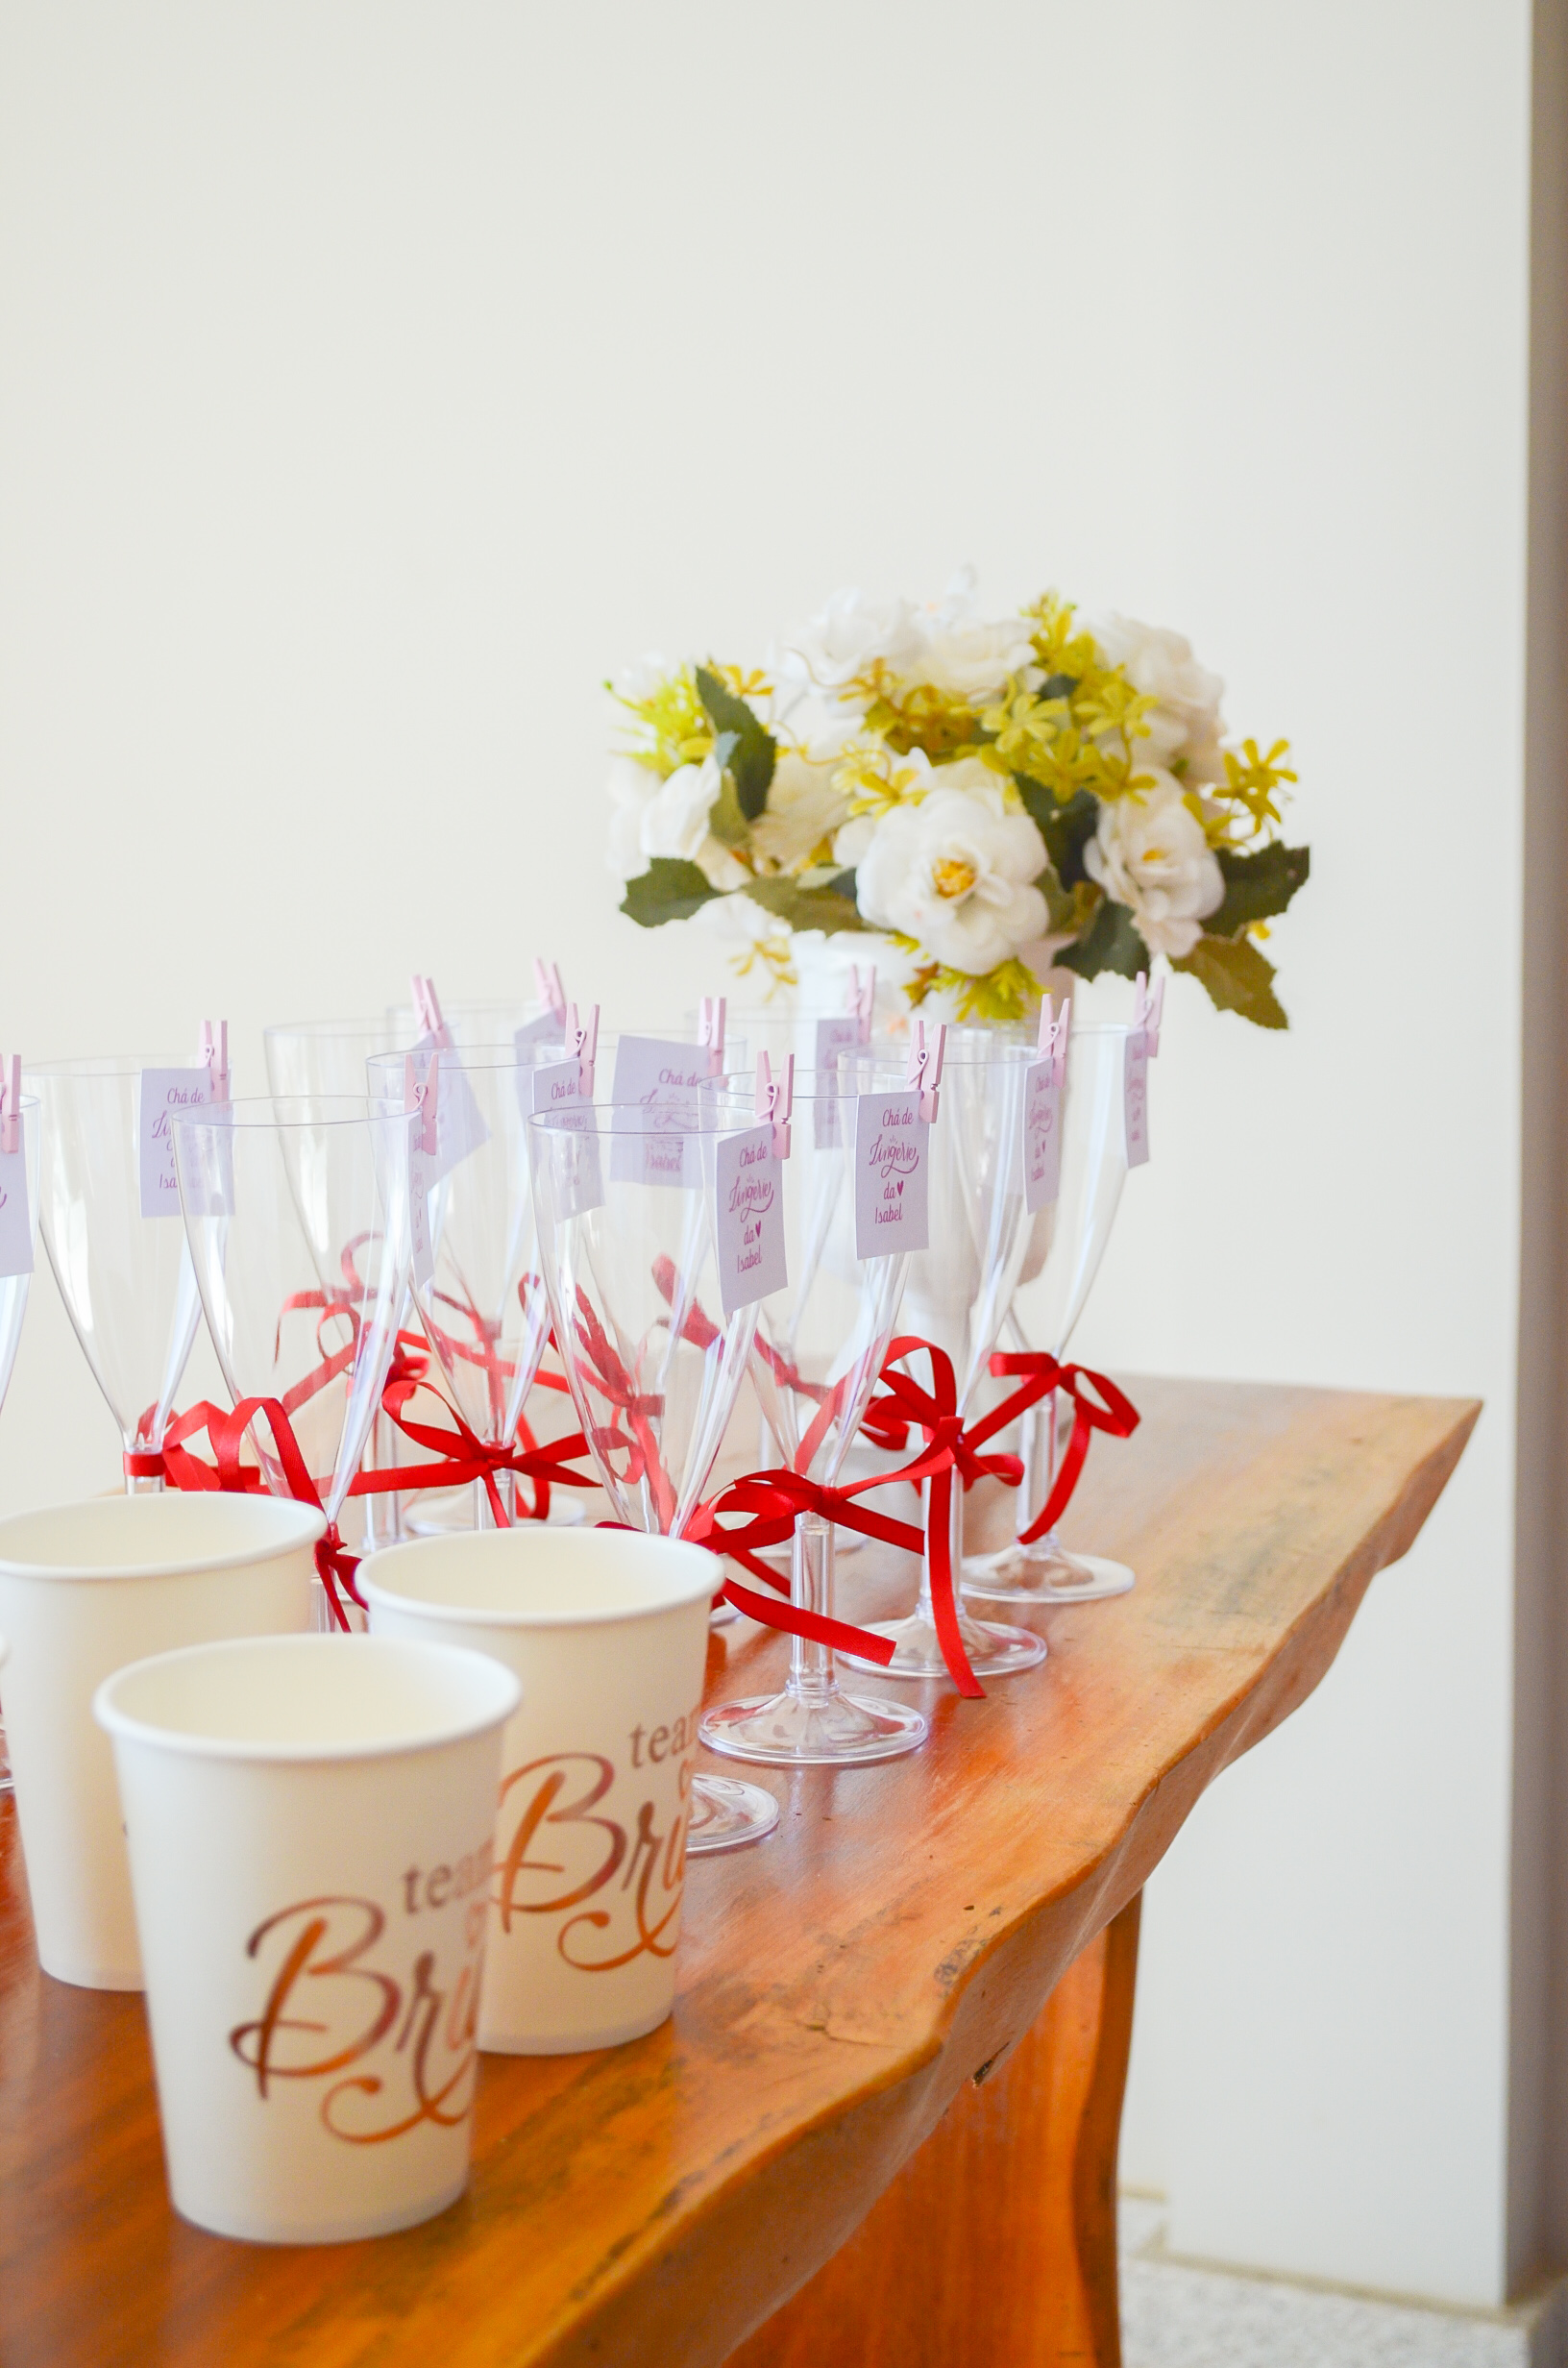
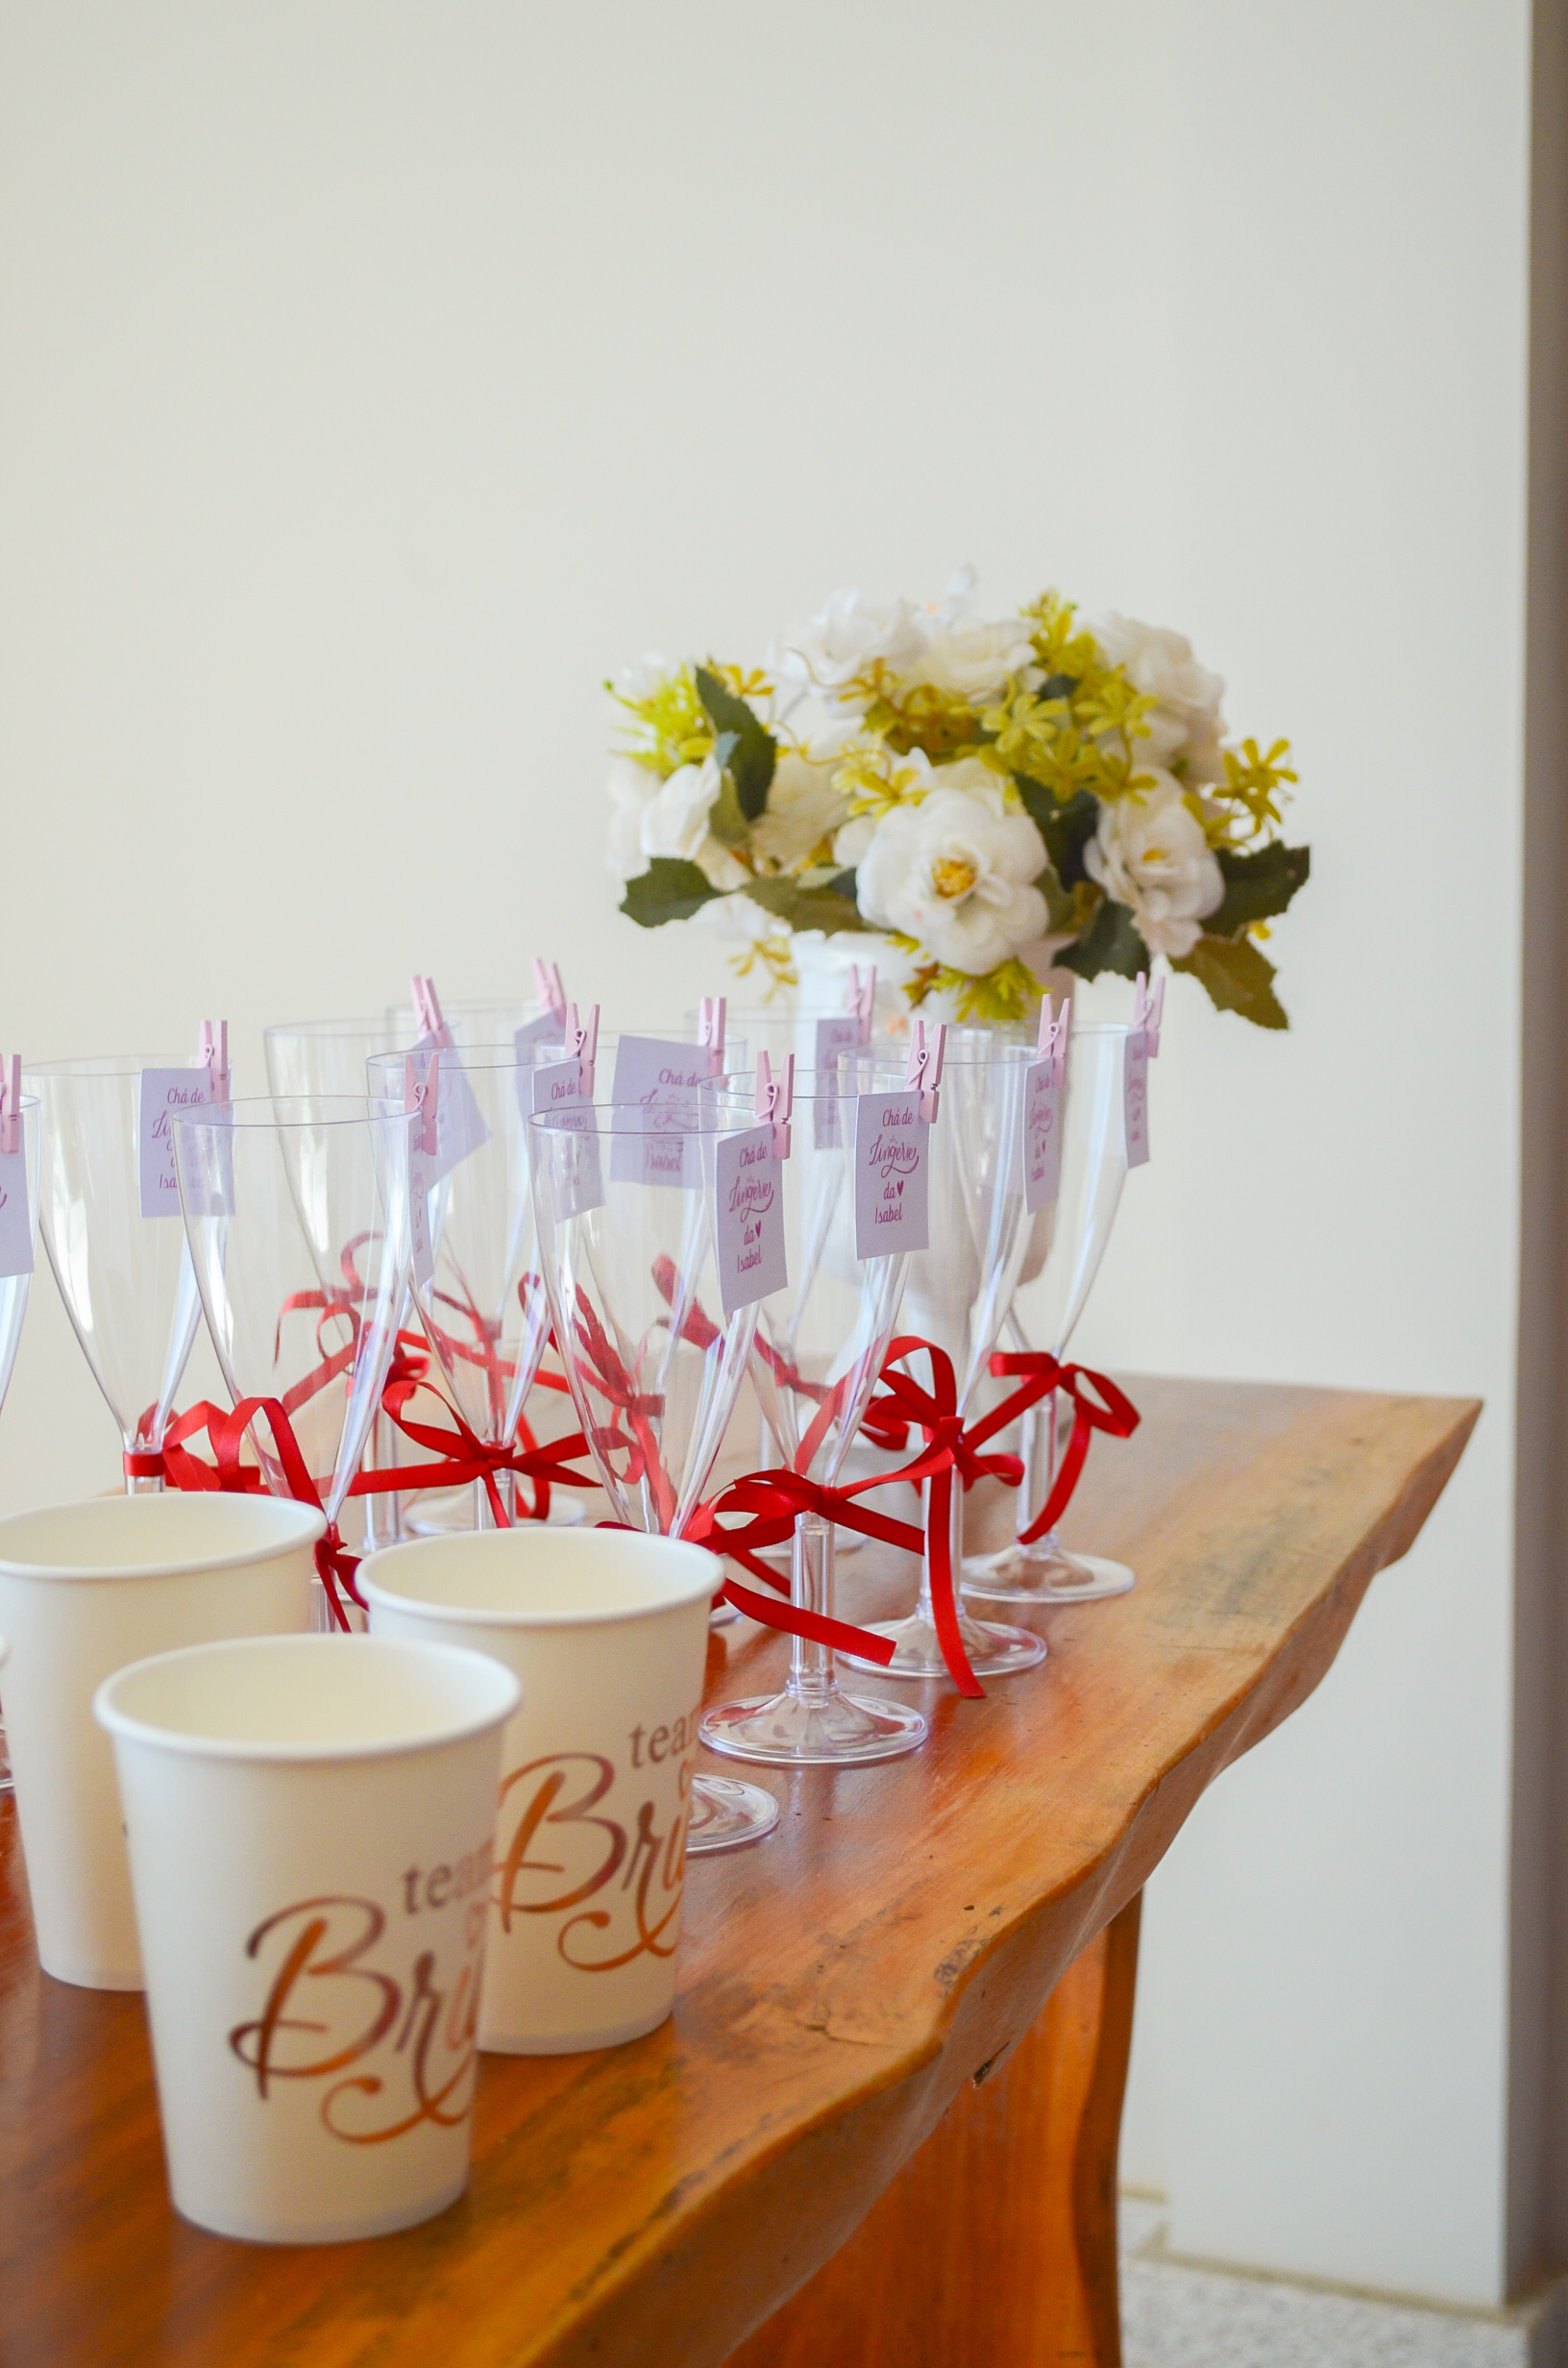
Adicionando fotos celebrações 2

diff --git a/galeria.html b/galeria.html
@@ -103,29 +103,33 @@
         </div>
 -->
 
-     <!--     FOTOS CELEBRAÇÕES     -->       
+     <!--     FOTOS CELEBRAÇÕES     -->    
+        <div class="item celebracoes horizontal">
+            <img src="imggale/deco.jpeg">
+        </div>
+
          <div class="item celebracoes">
+            <img src="imggale/isabel.jpeg">
+        </div>
+
+        <div class="item celebracoes">
             <img src="img/trab5.jpeg">
         </div>
 
         <div class="item celebracoes">
-            <img src="img/trab4.jpeg">
-        </div>
-
-        <div class="item celebracoes">
-            <img src="img/trab3.jpeg">
+            <img src="imggale/isabel2.jpeg">
         </div>
 
         <div class="item celebracoes horizontal">
-            <img src="imggale/isaamigas.jpeg">
-        </div>
-
-        <div class="item celebracoes">
-            <img src="imggale/deco.jpeg">
-        </div>
-
-        <div class="item celebracoes">
             <img src="imggale/deco2.jpeg">
+        </div>
+
+        <div class="item celebracoes">
+            <img src="imggale/trab1.jpeg">
+        </div>
+
+        <div class="item celebracoes">
+            <img src="imggale/trab2.jpeg">
         </div>
 
         <div class="item celebracoes">
@@ -150,6 +154,17 @@
             <img src="imggale/escr3.jpeg">
         </div>
 
+        <div class="item internos">
+            <img src="img/trab6.jpeg">
+        </div>
+
+        <div class="item internos">
+            <img src="img/trab7.jpeg">
+        </div>
+
+        <div class="item internos">
+            <img src="img/trab8.jpeg">
+        </div>
 
      <!--     VÍDEOS     -->          
         <div class="item videos video-slide video-horizontal">